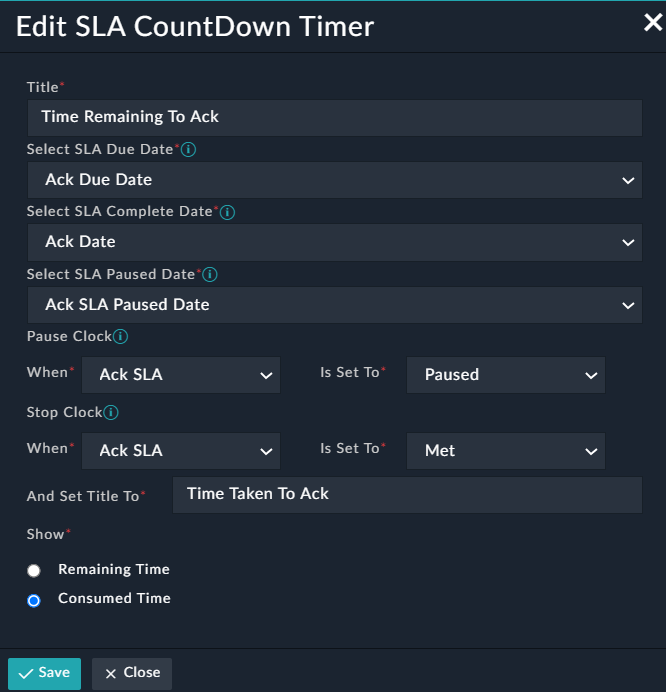
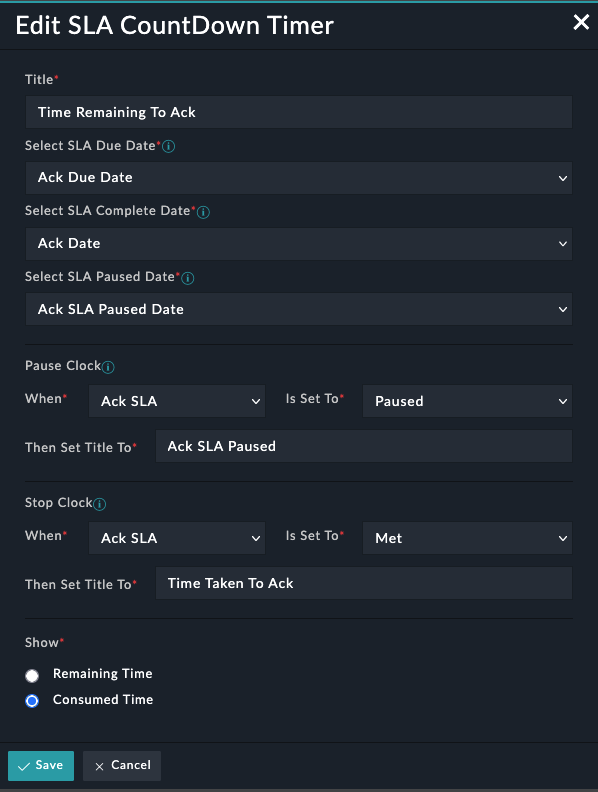
Updated Documentation

diff --git a/widget/widgetAssets/js/widgetUtility.service.js b/widget/widgetAssets/js/widgetUtility.service.js
@@ -1,6 +1,6 @@
 /* Copyright start
   MIT License
-  Copyright (c) 2024 Fortinet Inc
+  Copyright (c) 2026 Fortinet Inc
   Copyright end */
   
 'use strict';

diff --git a/docs/setup.md b/docs/setup.md
@@ -17,8 +17,13 @@
 | Select SLA Completion Date  | Select the appropriate option to set the timestamp at which the countdown timer should stop. It is the date/time that represents when the SLA condition is met. |
 | Select SLA Paused Date  | Select the appropriate option to set the date/time at which the SLA will be paused. |
 | Pause Clock | Defines the condition when the countdown timer should be paused. |
+| When | Select appropriate field on which the Paused SLA to be tracked |
+| Is Set to | Value of the field to be set for the paused SLA |
+| Then Set Title To  | Once the countdown timer has been paused, this field represents the countdown title that should be displayed. |
 | Stop Clock  | Defines the condition when the countdown timer should be stopped. |
-| And Set Title To  | Once the countdown timer has been stopped, this field represents the countdown title that should be displayed. |
+| When | Select appropriate field on which the Stopped SLA to be tracked |
+| Is Set to | Value of the field to be set for the stop SLA |
+| Then Set Title To  | Once the countdown timer has been stopped, this field represents the countdown title that should be displayed. |
 | Show: Remaining Time | Time remaining until the acknowledgment due date is breached.  |
 | Show: Consumed Time | Time consumed to acknowledge the alert. |
 

diff --git a/docs/usage.md b/docs/usage.md
@@ -4,7 +4,7 @@
 # Usage
 
 SLA Count Down Timer:
-Sets a count down timer which displays time remaining for SLA breach. Allows to display time remaining or consumed after SLA is acheived, based on setting
+Sets a count down timer which displays time remaining for SLA breach. Allows to display time remaining or consumed after SLA is achieved, based on setting
 - SLA Due Date
 - SLA Complete Date
 - Condition to stop and pause timer
@@ -18,7 +18,7 @@ This section details the process to edit the widget and use it with data from a 
 
 #### Appearance
 
-The following image shows Sla Count Down Timer in detailed view.
+The following image shows SLA Count Down Timer in detailed view.
 
 ![](./media/sla-countdown-timer-img.png)
 

diff --git a/README.md b/README.md
@@ -4,7 +4,7 @@
 
 - **Publisher**: Fortinet
 
-- **Compatibility**: 7.0.2 and higher
+- **Compatibility**: 7.6.5 and higher
 
 - **Applicable**: View Panel
 
